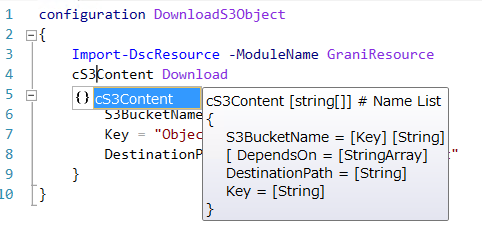
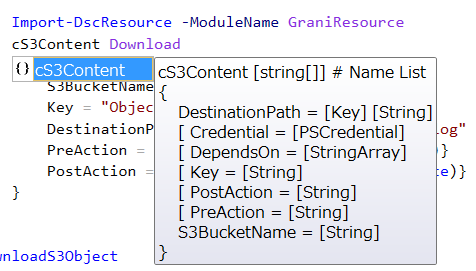
update README.md

diff --git a/Custom/GraniResource/DSCResources/Grani_S3Content/README.md b/Custom/GraniResource/DSCResources/Grani_S3Content/README.md
@@ -27,6 +27,7 @@ Intellisense
 
 ![](cS3Content.png)
 
+
 Sample
 ----
 
@@ -47,6 +48,26 @@ configuration DownloadS3Object
 }
 ```
 
+- Download S3Object from Desired S3Bucket with Execute PreAction and PostAction of Download.
+
+This sample shows how to run PreAction for Download, and PostAction for Download.
+You may find Stanrd Output with Debug mode.
+
+```powershell
+configuration DownloadS3Object
+{
+    Import-DscResource -ModuleName GraniResource
+    cS3Content Download
+    {
+        S3BucketName = "YourBucketName"
+        Key = "ObjectName"
+        DestinationPath = "c:\Path\To\Save\Content"
+        PreAction = {"PreAction : {0}" -f (Get-Date)}
+        PostAction = {"PostAction : {0}" -f (Get-Date)}
+    }
+}
+```
+
 Dependancy
 ----
 
@@ -63,7 +84,7 @@ When IAM Role is attached to your instance, S3 Bucket policy can control Where /
 Tips
 ----
 
-**FileHash and ETag not maching**
+**FileHash and ETag maching**
 
 S3Conten matching MD5 file hash and Etag on S3 for file version validation. However S3 content Etag (MD5) will be changed when content upload by MultiPart Upload. This cause unmatching of MD5 FileHash between S3 Content and Downloaded File.
 
